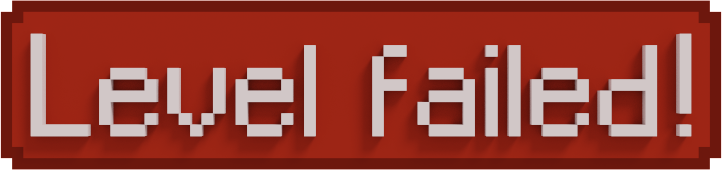
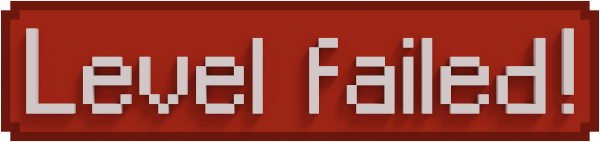
level success/failed messages, plane shadow fadeout

diff --git a/plane.js b/plane.js
@@ -45,11 +45,26 @@ function Plane(game, coords, dir) {
             this.height -= 0.001 // uhh, well, i mean
         }
         if (this.height <= 0 && !this.finished) {
-            console.log("Victory!") //TODO victory text + sound
+            console.log("Victory!") //TODO sound
             this.finished = true;
-
             game.ui.btnRestart.visible = false;
+            game.ui.startPopupAnimation(true)
             if (game.levelIndex < ALL_LEVELS.length - 1) game.ui.btnNext.visible = true;
+        }
+
+        // Check if plane is leaving world
+        if (!this.escaped && (
+            this.coords[0] < 0 && this.dir == 1 || this.coords[0] > this.game.world.tiles.length && this.dir == 5 || 
+            this.coords[1] < 0 && this.dir == 7 || this.coords[1] > this.game.world.tiles[0].length && this.dir == 3)) {
+                this.game.ui.startPopupAnimation(false)
+                this.game.tweens.add({ // fade out shadow
+                    targets: this.shadow,
+                    alpha: 0,
+                    duration: 300,
+                    ease: 'Linear',
+                    delay: 0
+                });
+                this.escaped = true;
         }
 
         // Update sprites
@@ -77,6 +92,7 @@ function Plane(game, coords, dir) {
     this.waitTime = PLANE_WAIT_TIME
     this.height = PLANE_HEIGHT
     this.finished = false;
+    this.escaped = false;
 
     // Create sprites
     var screenCoords = getScreenCoords(game, coords[0], coords[1])

diff --git a/ui.js b/ui.js
@@ -52,6 +52,29 @@ function UI(gameScene) {
         gameScene.scene.launch('LevelSelectScene');
     });
 
+    // Level completed/failed messages
+    const BOTTOM_HEIGHT = 50
+    const MOVE_TIME = 1200 // [ms]
+    var complete = gameScene.add.sprite(SIZE_X/2, -BOTTOM_HEIGHT, 'level_complete').setScale(0.45).setDepth(100)
+    var failed = gameScene.add.sprite(SIZE_X/2, -BOTTOM_HEIGHT, 'level_failed').setScale(0.45).setDepth(100)
+    complete.visible = failed.visible = false
+    this.popups = {}
+    this.popups.sprites = [complete, failed]
+
+    this.startPopupAnimation = function(success) {
+        this.popups.typePopup = success
+        this.popups.sprites[success ? 0 : 1].visible = true
+        this.popups.timeAnimating = 1
+    }
+
+    this.updatePopup = function(dt) {
+        if (this.popups.timeAnimating <= 0) return
+        this.popups.timeAnimating += dt
+        var newYPos = BOTTOM_HEIGHT * Math.sin(this.popups.timeAnimating / MOVE_TIME * Math.PI - Math.PI / 2)
+        this.popups.sprites[this.popups.typePopup ? 0 : 1].y = newYPos
+        if (this.popups.timeAnimating >= MOVE_TIME) this.popups.timeAnimating = 0
+    }
+
     // Add level text
-    gameScene.add.text(10, 10, 'Level ' + (gameScene.levelIndex + 1) + "/" + ALL_LEVELS.length).setColor("0").setFontSize(50)
+    gameScene.add.text(10, 10, 'Level ' + (gameScene.levelIndex + 1) + "/" + ALL_LEVELS.length).setColor("0").setFontSize(50).setDepth(100)
 }

diff --git a/sceneLoading.js b/sceneLoading.js
@@ -24,6 +24,8 @@ class LoadingScene extends Phaser.Scene {
         this.load.image('btn_level_3', 'assets/menu/button_level_3.png');
         this.load.image('btn_level_4', 'assets/menu/button_level_4.png');
         this.load.image('btn_level_todo', 'assets/menu/button_level_todo.png');
+        this.load.image('level_complete', 'assets/menu/level_complete.png');
+        this.load.image('level_failed', 'assets/menu/level_failed.png');
 
         // Load terain tile assets
         for (var i = 0; i < 7; i++) this.load.image('G' + i, 'assets/tiles/grass' + i + '.png')

diff --git a/sceneGame.js b/sceneGame.js
@@ -43,6 +43,7 @@ class GameScene extends Phaser.Scene {
 
         this.pilot.move(dirVector, dt)
         this.plane.move(dt)
+        this.ui.updatePopup(dt)
     }
 }
 
